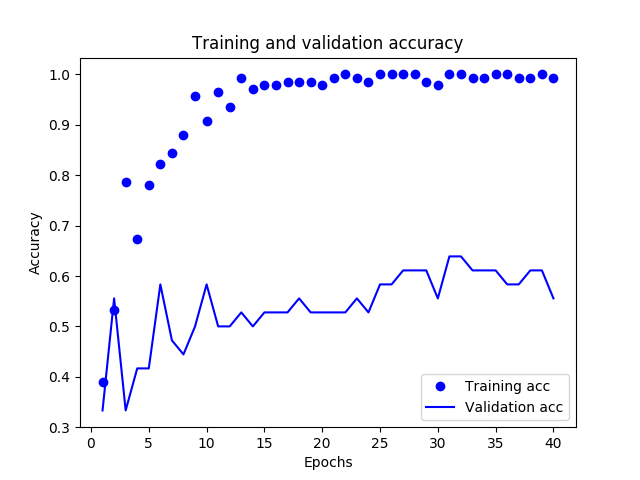
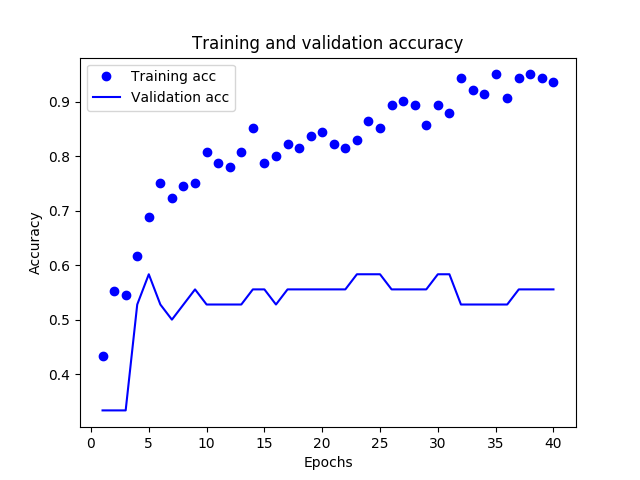
优化学习率，效果更加平稳

diff --git a/src/py3.x/tensorflow2.x/text_Emotion.py b/src/py3.x/tensorflow2.x/text_Emotion.py
@@ -163,7 +163,7 @@ class EmotionModel(object):
         preds = Dense(self.pre_num, activation='softmax')(x)
         self.model = Model(sequence_input, preds)
         # 设置优化器
-        optimizer = Adam(lr=self.config.learning_rate)
+        optimizer = Adam(lr=self.config.learning_rate, beta_1=0.95, beta_2=0.999,epsilon=1e-08)
         self.model.compile(optimizer=optimizer, loss='categorical_crossentropy', metrics=['accuracy'])
         self.model.summary()
 

diff --git a/src/py3.x/tensorflow2.x/config.py b/src/py3.x/tensorflow2.x/config.py
@@ -15,7 +15,7 @@ class Config(object):
     # 根据前六个字预测第七个字
     max_len = 6
     batch_size = 512
-    learning_rate = 0.005
+    learning_rate = 0.0005
     pre_num = 3
     MAX_SEQUENCE_LENGTH = 1000  # 每个文本或者句子的截断长度，只保留1000个单词
     EMBEDDING_DIM = 60 # 词向量维度
